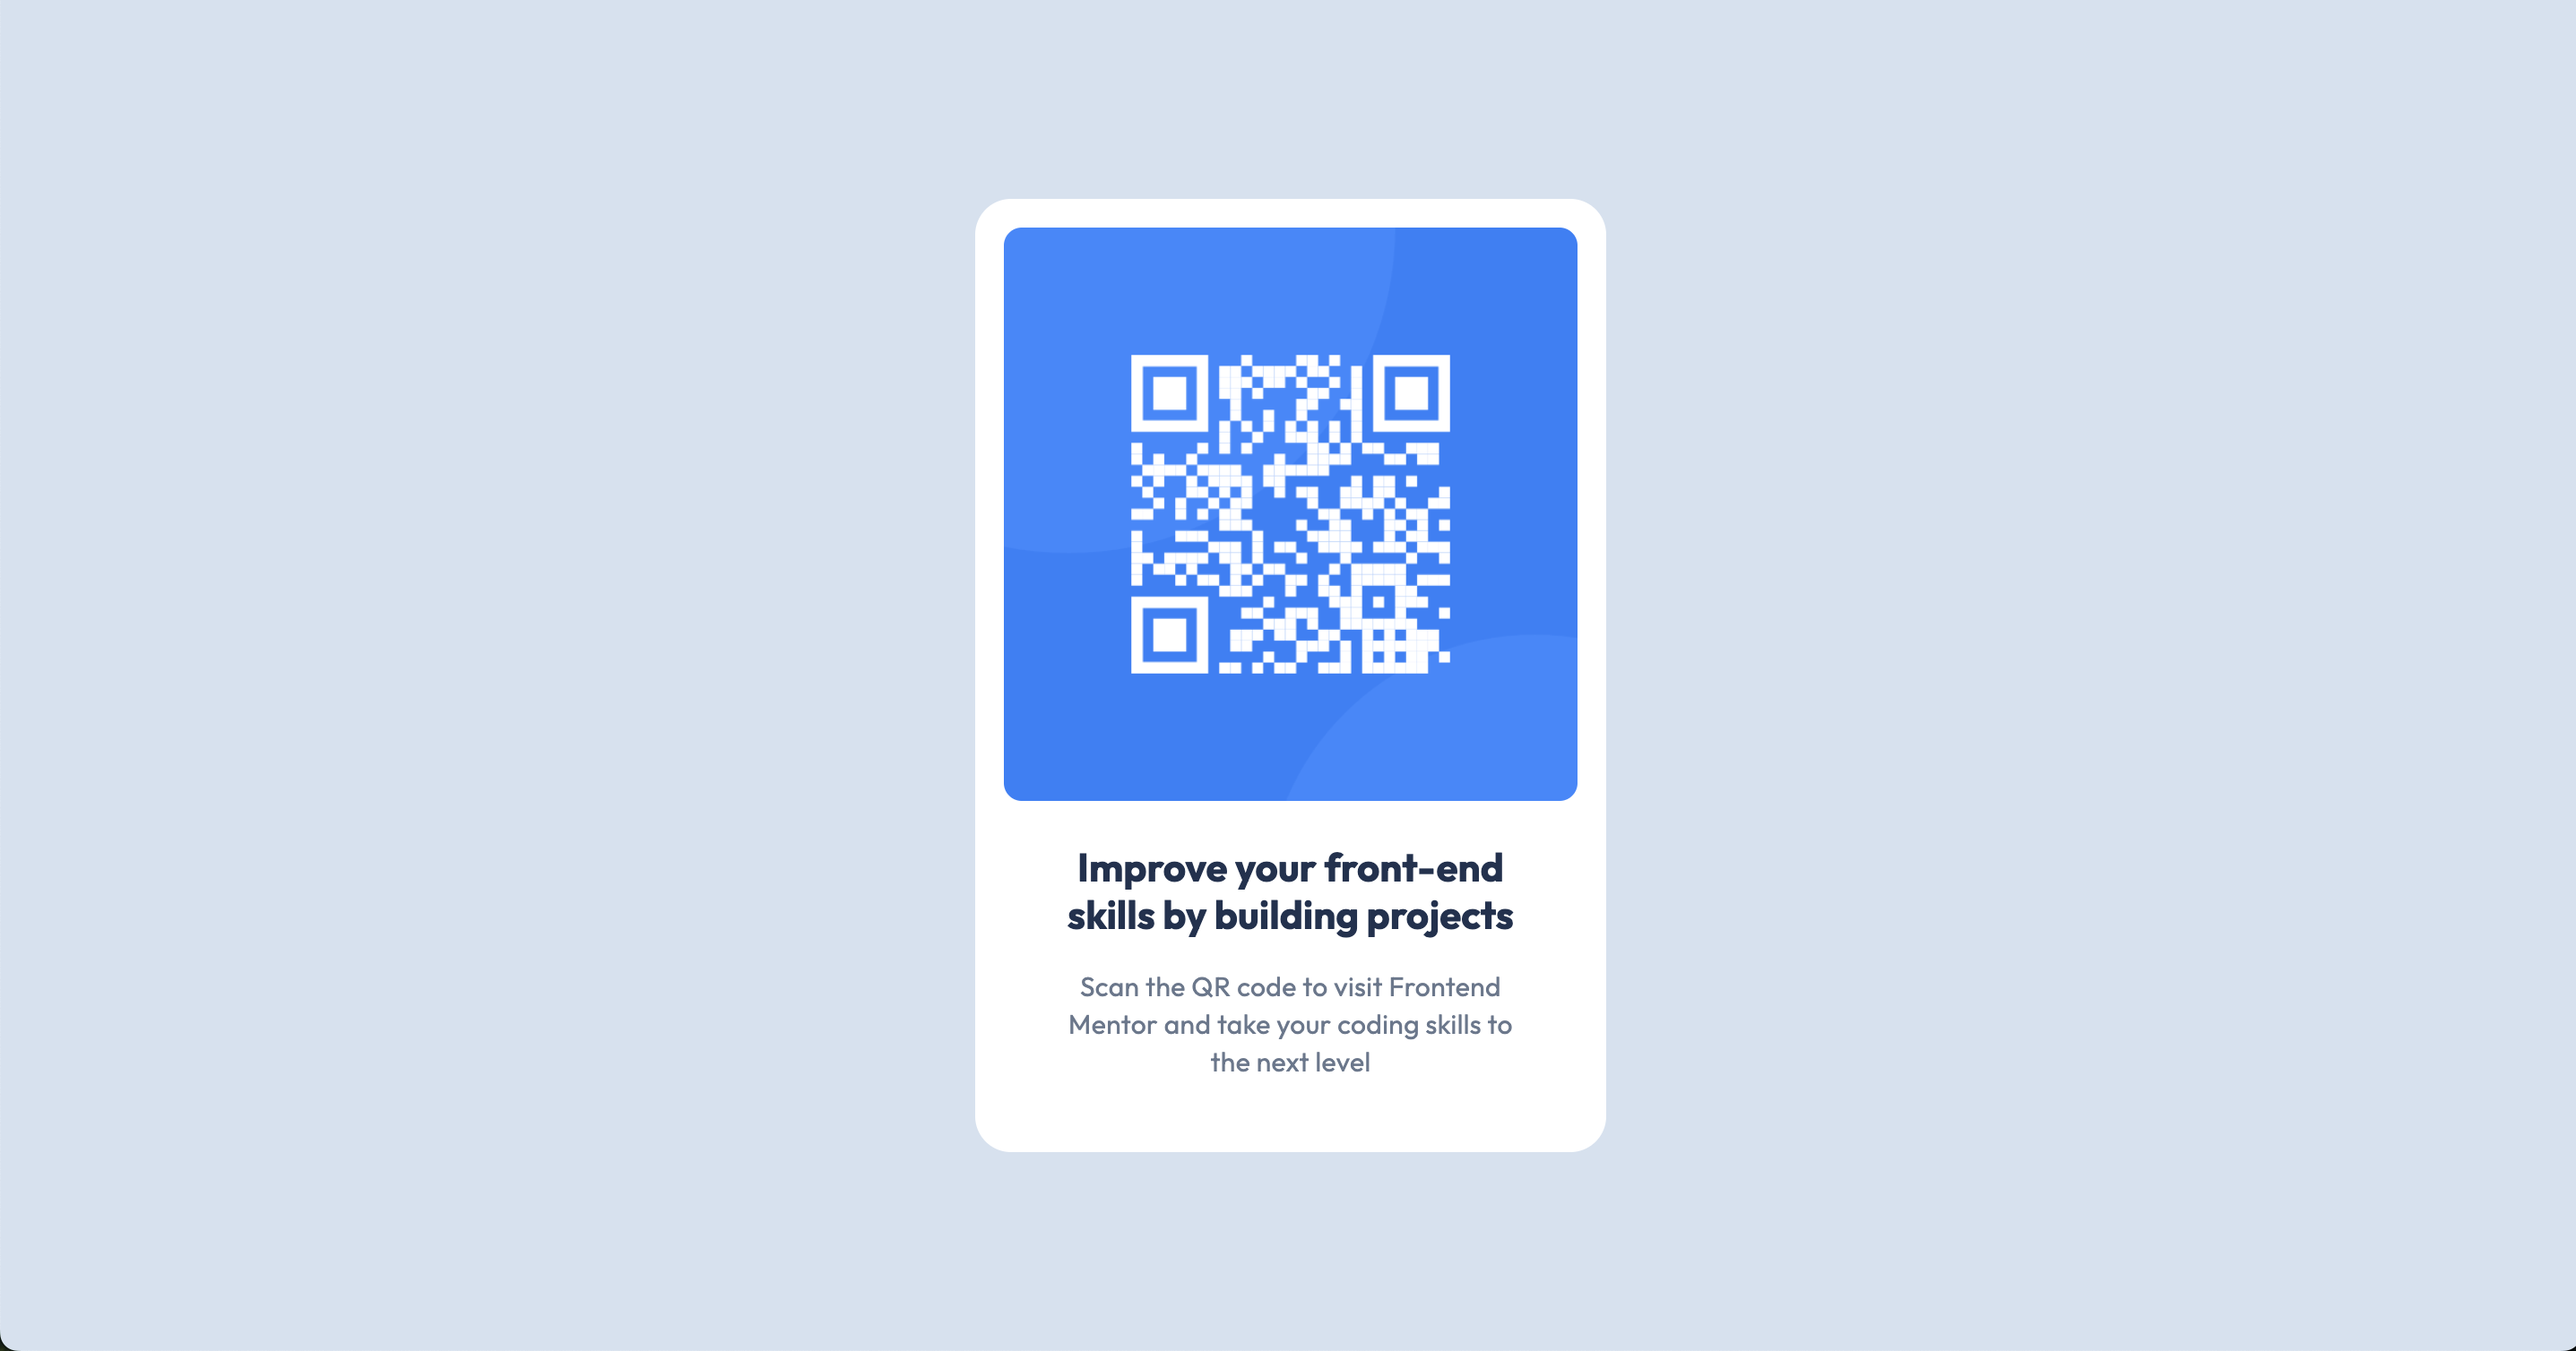
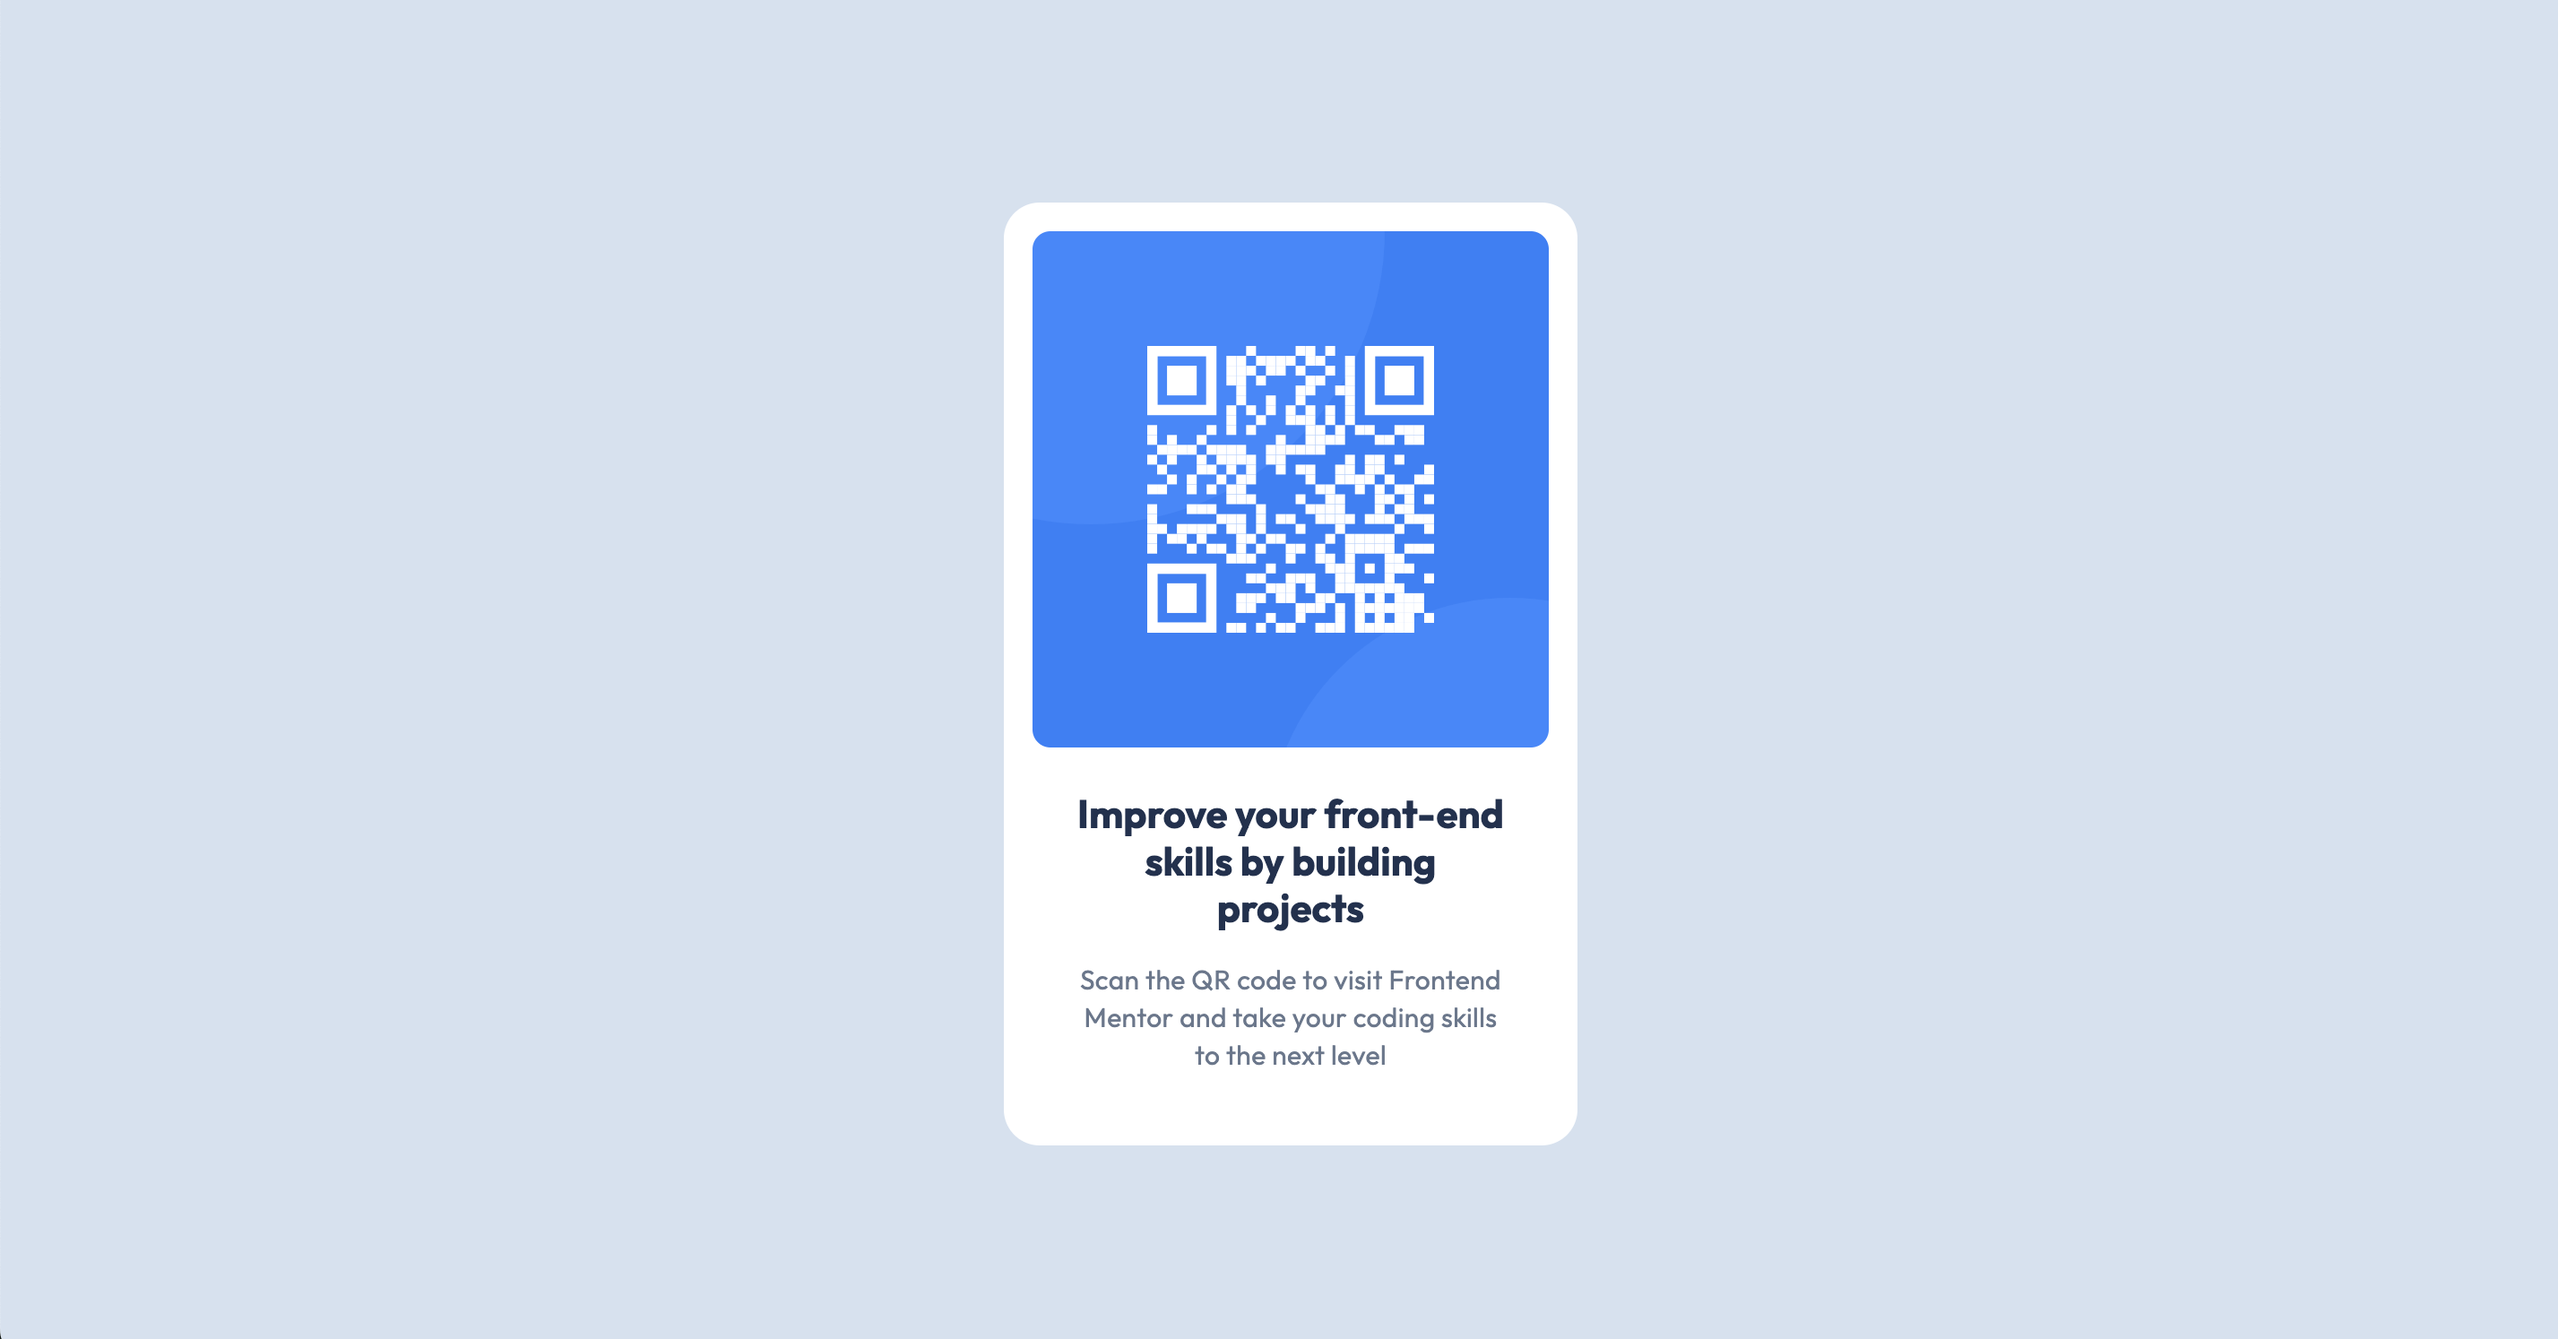
implemented the improvements frontend mentor, changed screenshots and README

Changed region(s): [[0.3742, 0.1232, 0.6237, 0.8621], [0.4366, 0.2463, 0.5613, 0.5234], [0.9979, 0.9853, 1.0, 1.0]]

diff --git a/styles.css b/styles.css
@@ -1,13 +1,18 @@
+* {
+  box-sizing: border-box;
+}
+
 body {
   background-color: #D5E1EF;
   display: grid;
   place-items: center;
   min-height: 100dvh;
   margin: 0;
+  font-family: "Outfit", sans-serif;
 }
 
 .card {
-  padding: 16px 16px 40px 16px;
+  padding: 1rem 1rem 2.5rem;
   max-width: 320px;
   margin: auto;
   background-color: white;
@@ -21,22 +26,20 @@ img {
   border-radius: 10px;
 }
 
-h3 {
+h1 {
   font-size: 1.375rem;
   line-height: 120%;
   letter-spacing: 0px;
-  font-family: "Outfit";
   font-weight: bold;
   color: #1F314F;
   max-width: 85%;
-  margin: 24px auto 16px auto;
+  margin: 1.5rem auto 1rem;
 }
 
 p {
   font-size: 0.9375rem;
   line-height: 140%;
   letter-spacing: 0.2px;
-  font-family: "Outfit";
   color: #68778D;
   max-width: 85%;
   margin-inline: auto;

diff --git a/index.html b/index.html
@@ -24,7 +24,7 @@
     <main>
       <div class="card">
         <img src="./images/image-qr-code.png" alt="qr-code" />
-        <h3>Improve your front-end skills by building projects</h3>
+        <h1>Improve your front-end skills by building projects</h1>
         <p>
           Scan the QR code to visit Frontend Mentor and take your coding skills
           to the next level

diff --git a/README.md b/README.md
@@ -21,7 +21,7 @@ This is a solution to the [QR code component challenge on Frontend Mentor](https
 
 ### Links
 
-- Live Site URL: [[Add live site URL here](https://michael-andreas.github.io/qr-code-component/)]([https://your-live-site-url.com](https://michael-andreas.github.io/qr-code-component/))
+- Live Site URL: [https://michael-andreas.github.io/qr-code-component/](https://michael-andreas.github.io/qr-code-component/)
 
 ## My process
 
